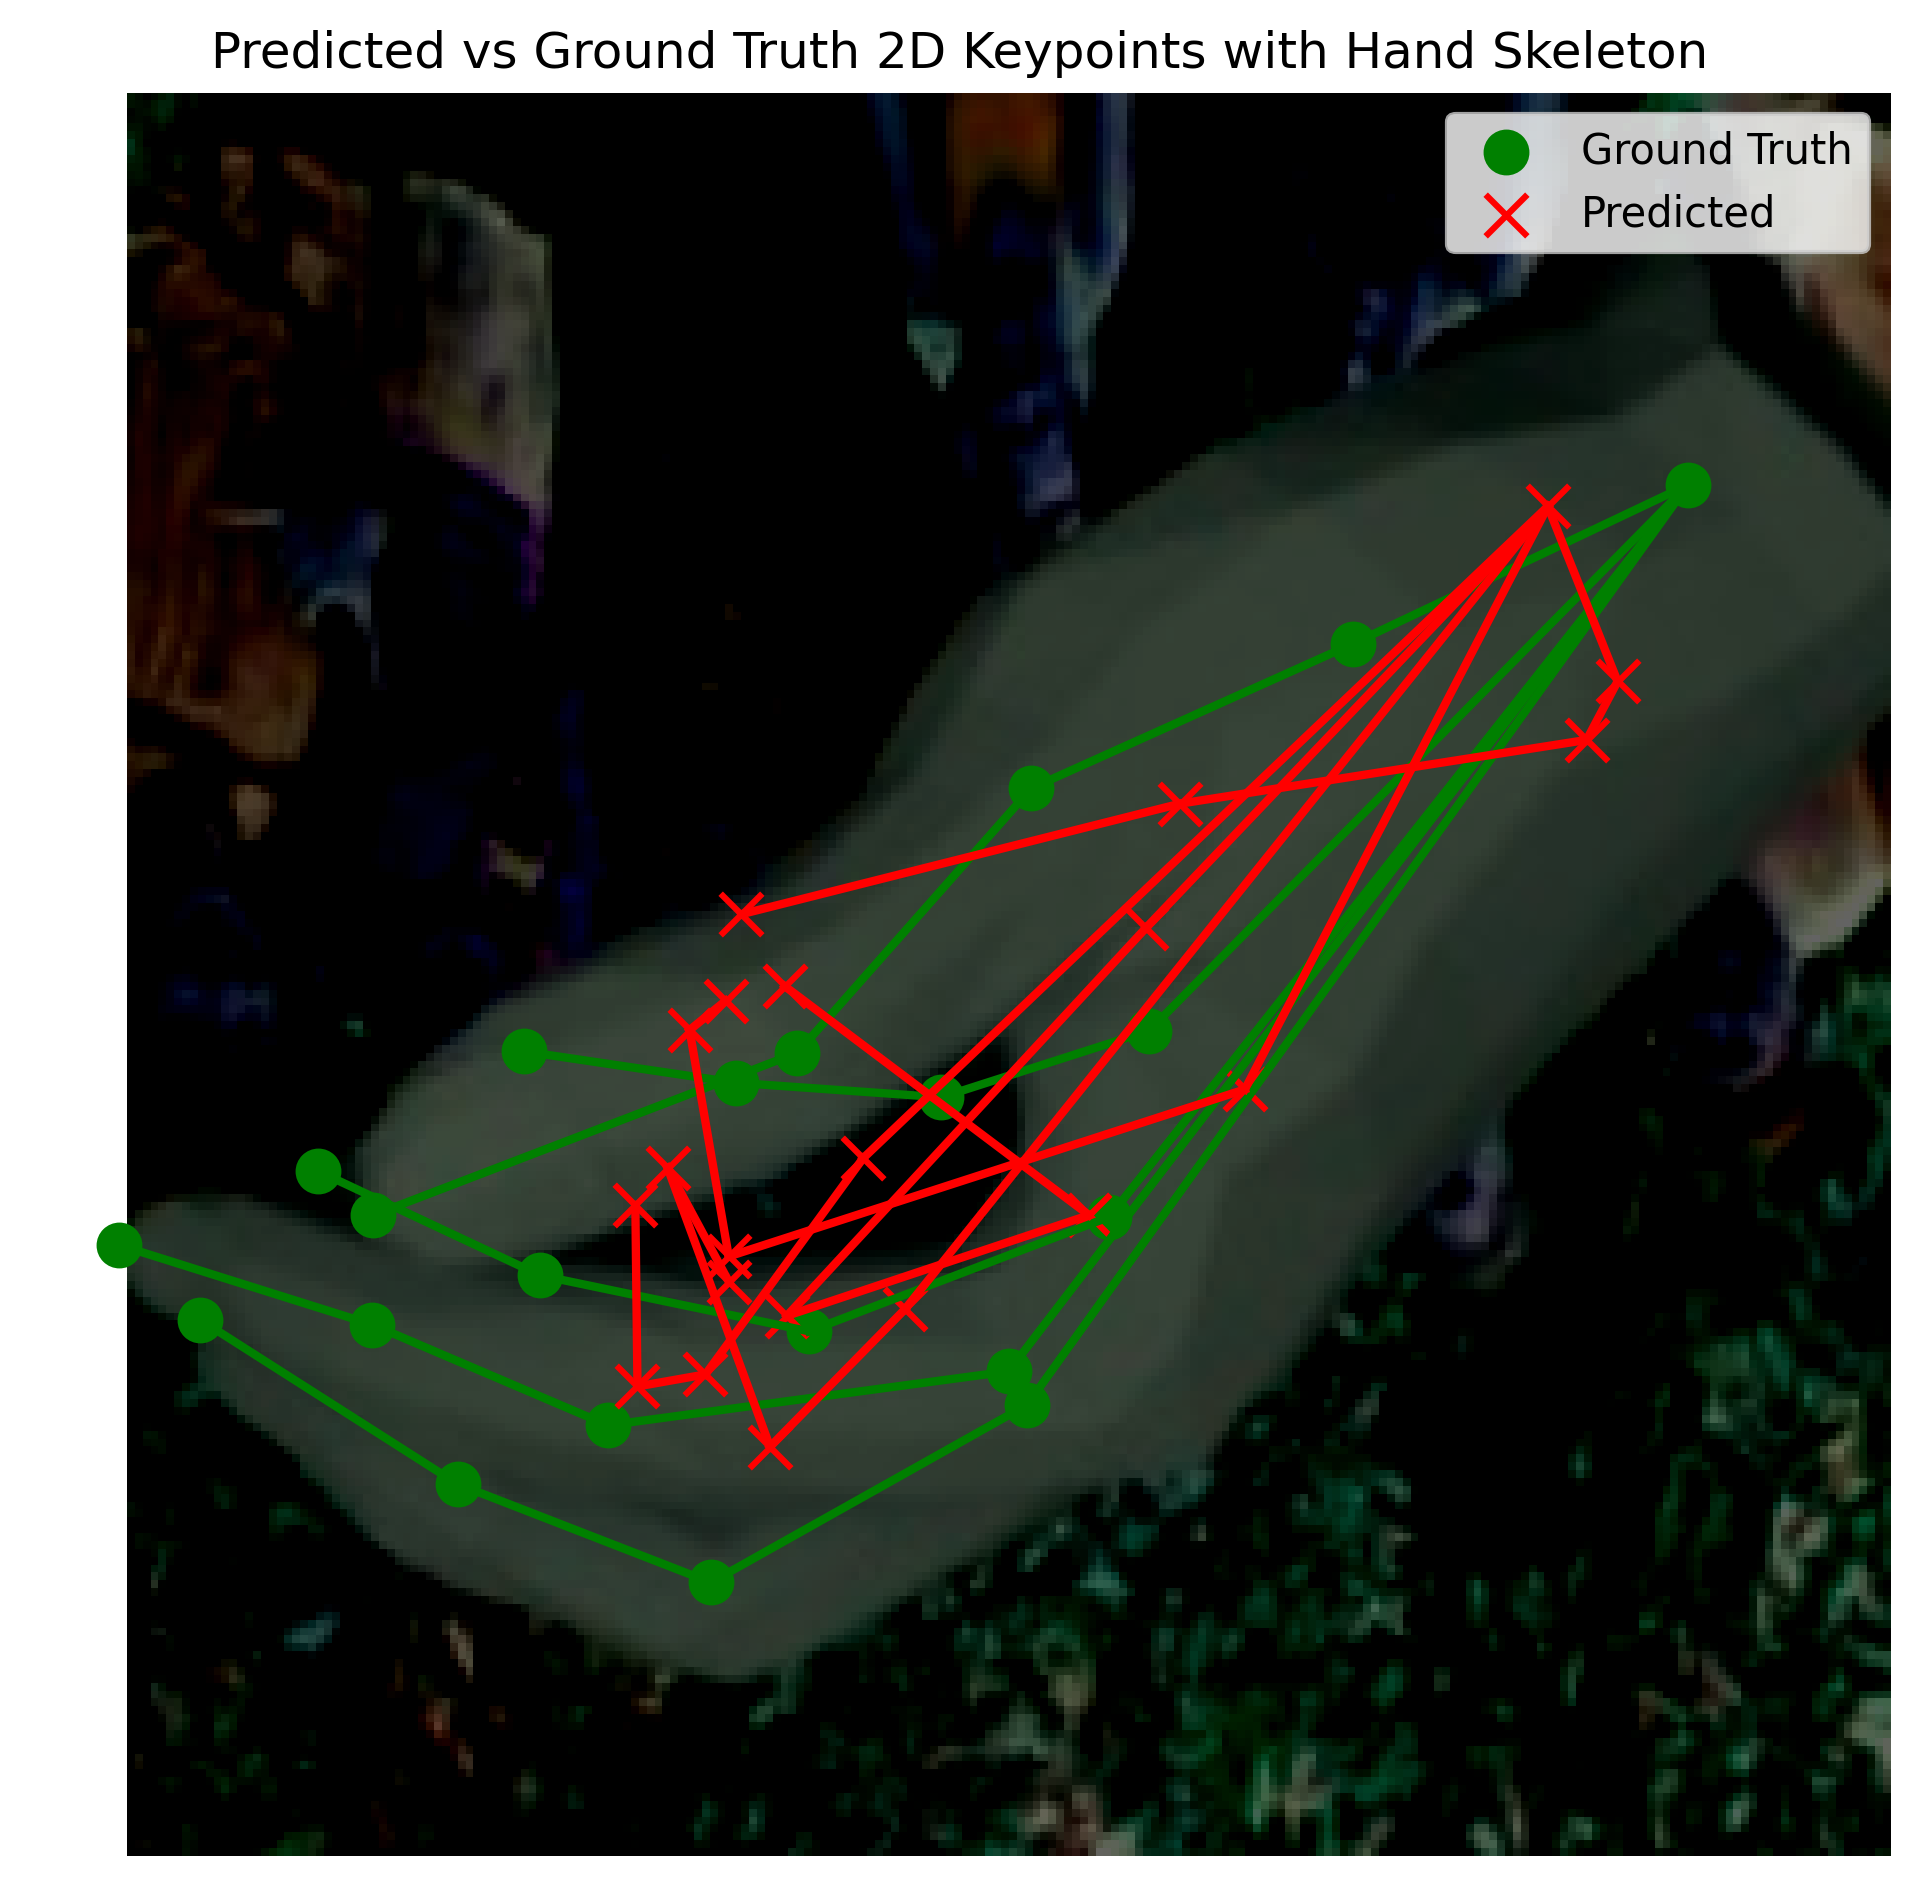
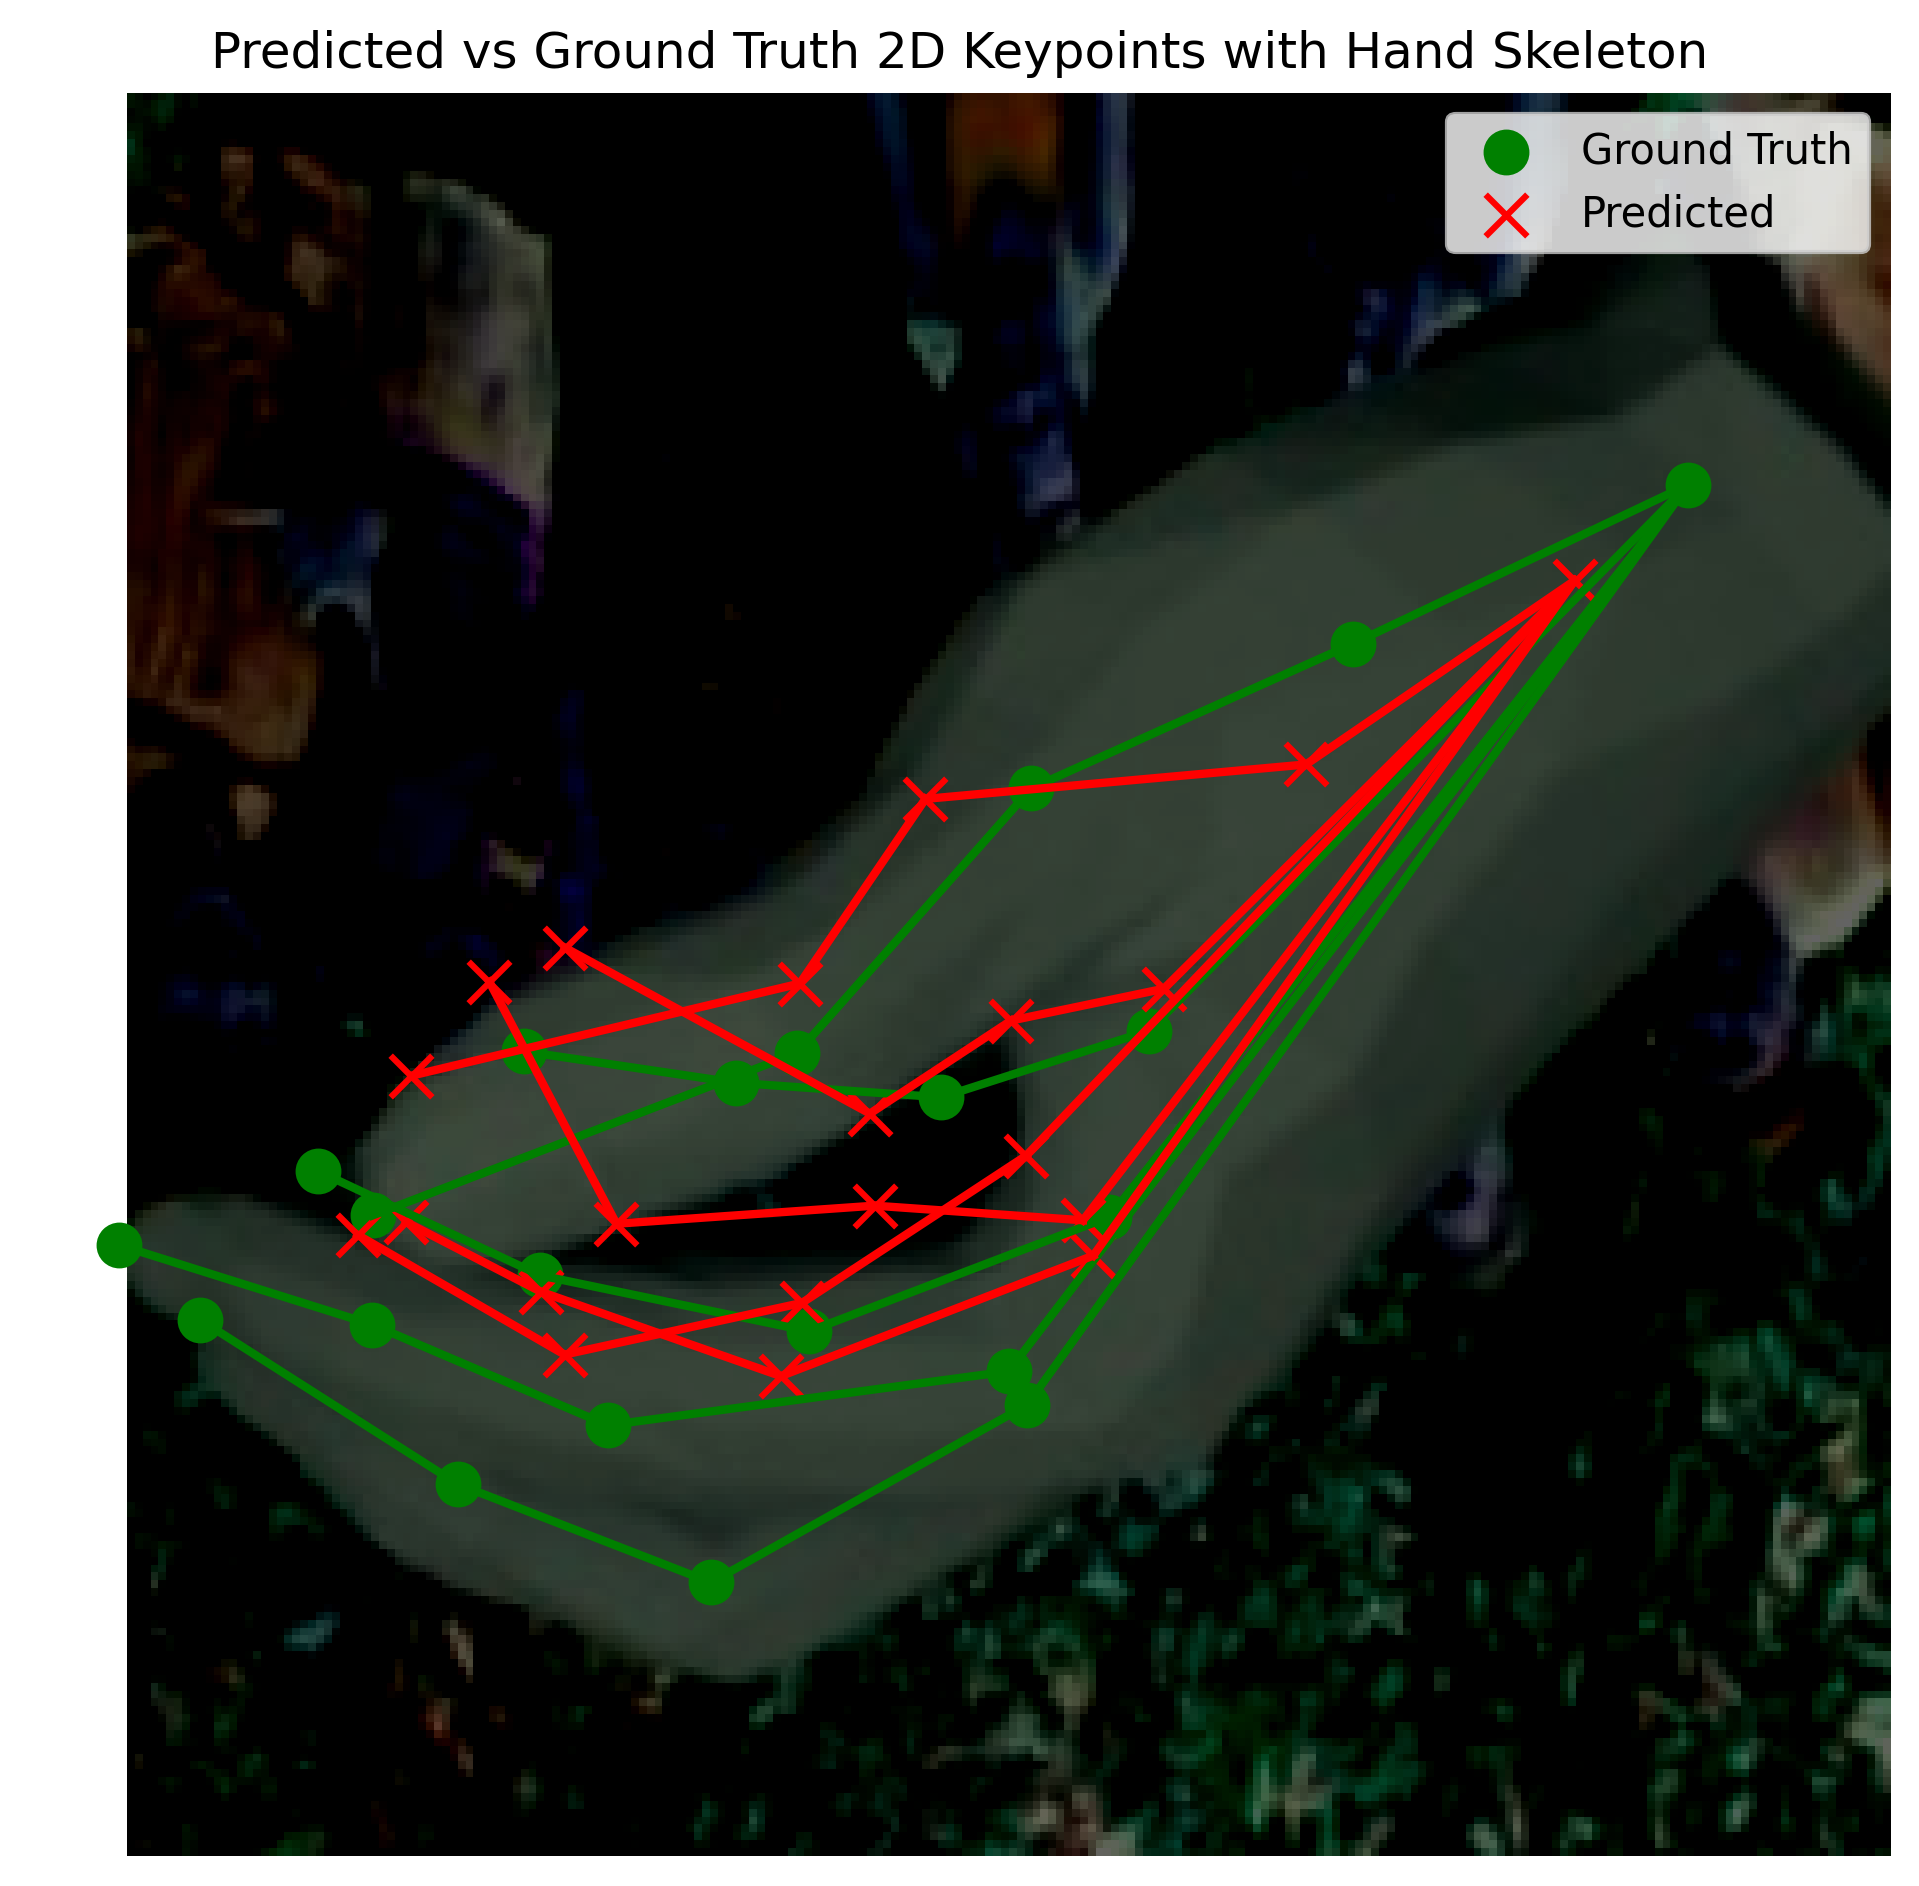
fixed 3d joint visual comparison

Changed region(s): [[0.1845, 0.246, 0.8609, 0.7688]]

diff --git a/hand_net.py b/hand_net.py
@@ -399,7 +399,7 @@ class HandNet(nn.Module):
         # depth = self.depth_head(global_feature)
         #-------------
         #debug predicted uv keypoints     
-        #visualize_uv_keypoints(image[0], uv_pred=uv[0], uv_gt=gt_uv[0])
+        visualize_uv_keypoints(image[0], uv_pred=uv[0], uv_gt=gt_uv[0])
         #-------------
         vertices = self.mesh_head(features, uv)
 
@@ -409,7 +409,7 @@ class HandNet(nn.Module):
 
         joints = mesh_to_joints(vertices)
         #debug
-        #visualize_joints_comparison(joints_pred[0], gt_xyz=gt_joints[0], save_path='./debug_img/joints_comparison.png')
+        #visualize_joints_comparison(joints[0], joints_gt=gt_joints[0], save_path='./debug_img/joints_comparison.png')
 
         return {
             "uv": uv,
